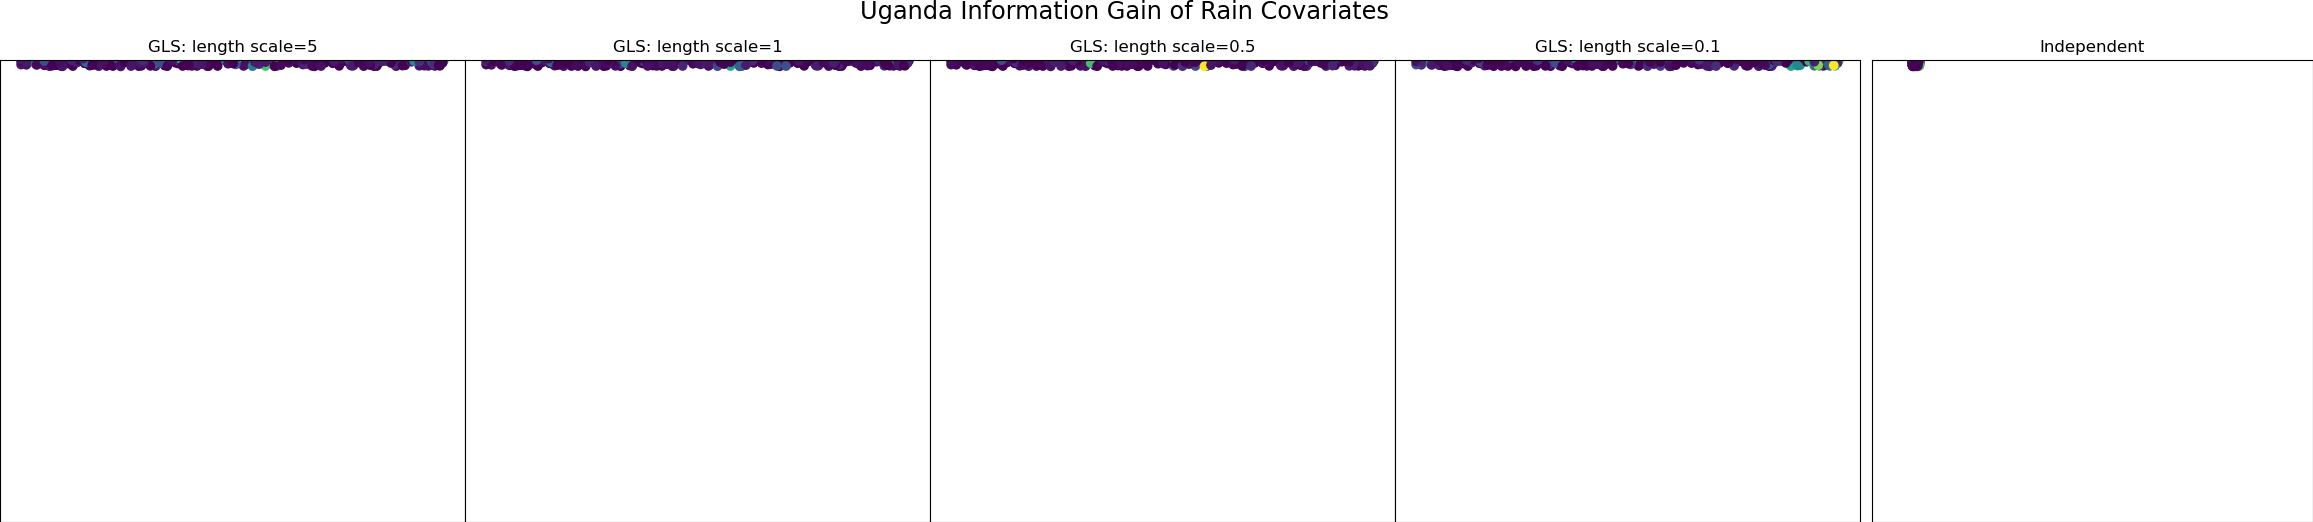
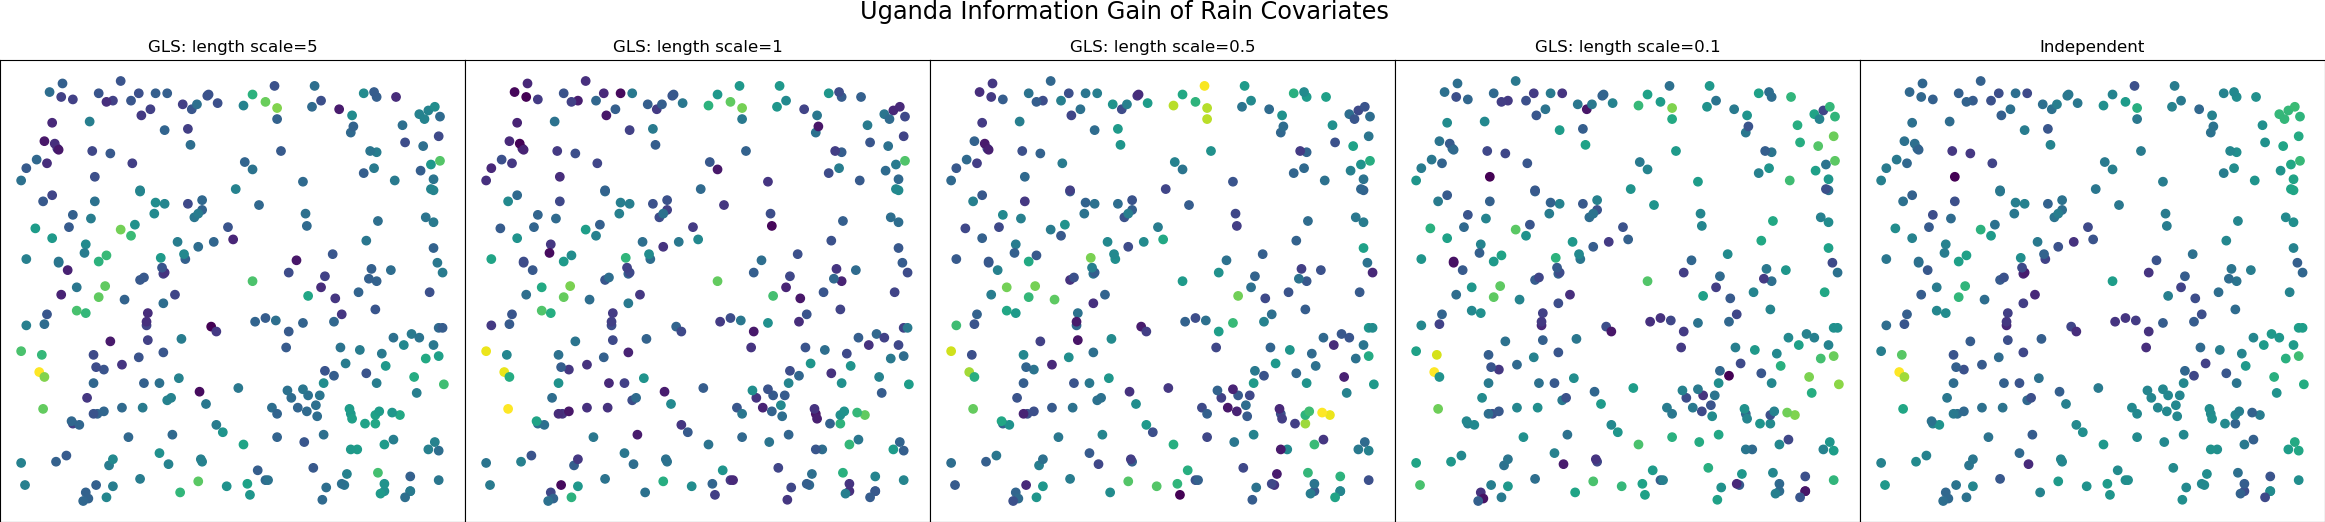
change scaling

diff --git a/information_matrix.py b/information_matrix.py
@@ -15,11 +15,11 @@ if __name__ == "__main__":
     lengthscales = [5, 1, .5, .1, 0]
 
     # Create design matrix where factors are column vectors
-    # lst = data["lst"].to_numpy()
+    lst = data["lst"].to_numpy()
     rain = data["rainfall"].to_numpy()
-    # elevation = data["elevation"].to_numpy()
-    # design = np.stack((lst, rain, elevation), axis = -1)
-    design = rain[:, np.newaxis]
+    elevation = data["elevation"].to_numpy()
+    design = np.stack((lst, rain, elevation), axis = -1)
+    # design = rain[:, np.newaxis]
 
     # Distance values
     x = data["x"].to_numpy()
@@ -56,9 +56,13 @@ if __name__ == "__main__":
             sign, without_info = np.linalg.slogdet(variance_covar_minus)
             information_gain.append(-(with_info - without_info))
         
+        information_gain_scaled = np.array(information_gain)
+        information_gain_scaled = np.divide(information_gain_scaled, .125)
+        information_gain_scaled = np.float_power(information_gain_scaled, .25)
+
         # Plot information gain with lengthscale
         # Scatter
-        axis[i].scatter(x, y, c=information_gain, cmap="viridis", zorder=1)
+        axis[i].scatter(x, y, c=information_gain_scaled, cmap="viridis", zorder=1)
         axis[i].get_xaxis().set_visible(False)
         axis[i].get_yaxis().set_visible(False)
         figure.subplots_adjust(wspace=0)
@@ -71,6 +75,7 @@ if __name__ == "__main__":
         else:
             axis[i].set_title("GLS: length scale=" + str(lengthscales[i]))  
     figure.suptitle("Uganda Information Gain of Rain Covariates", fontsize="xx-large")
+
     plt.savefig("Uganda Malaria Data/mock_malaria_cases_uganda_rain_information_matrix_2km_2018.png", bbox_inches="tight", pad_inches=0) 
     plt.show()
 
